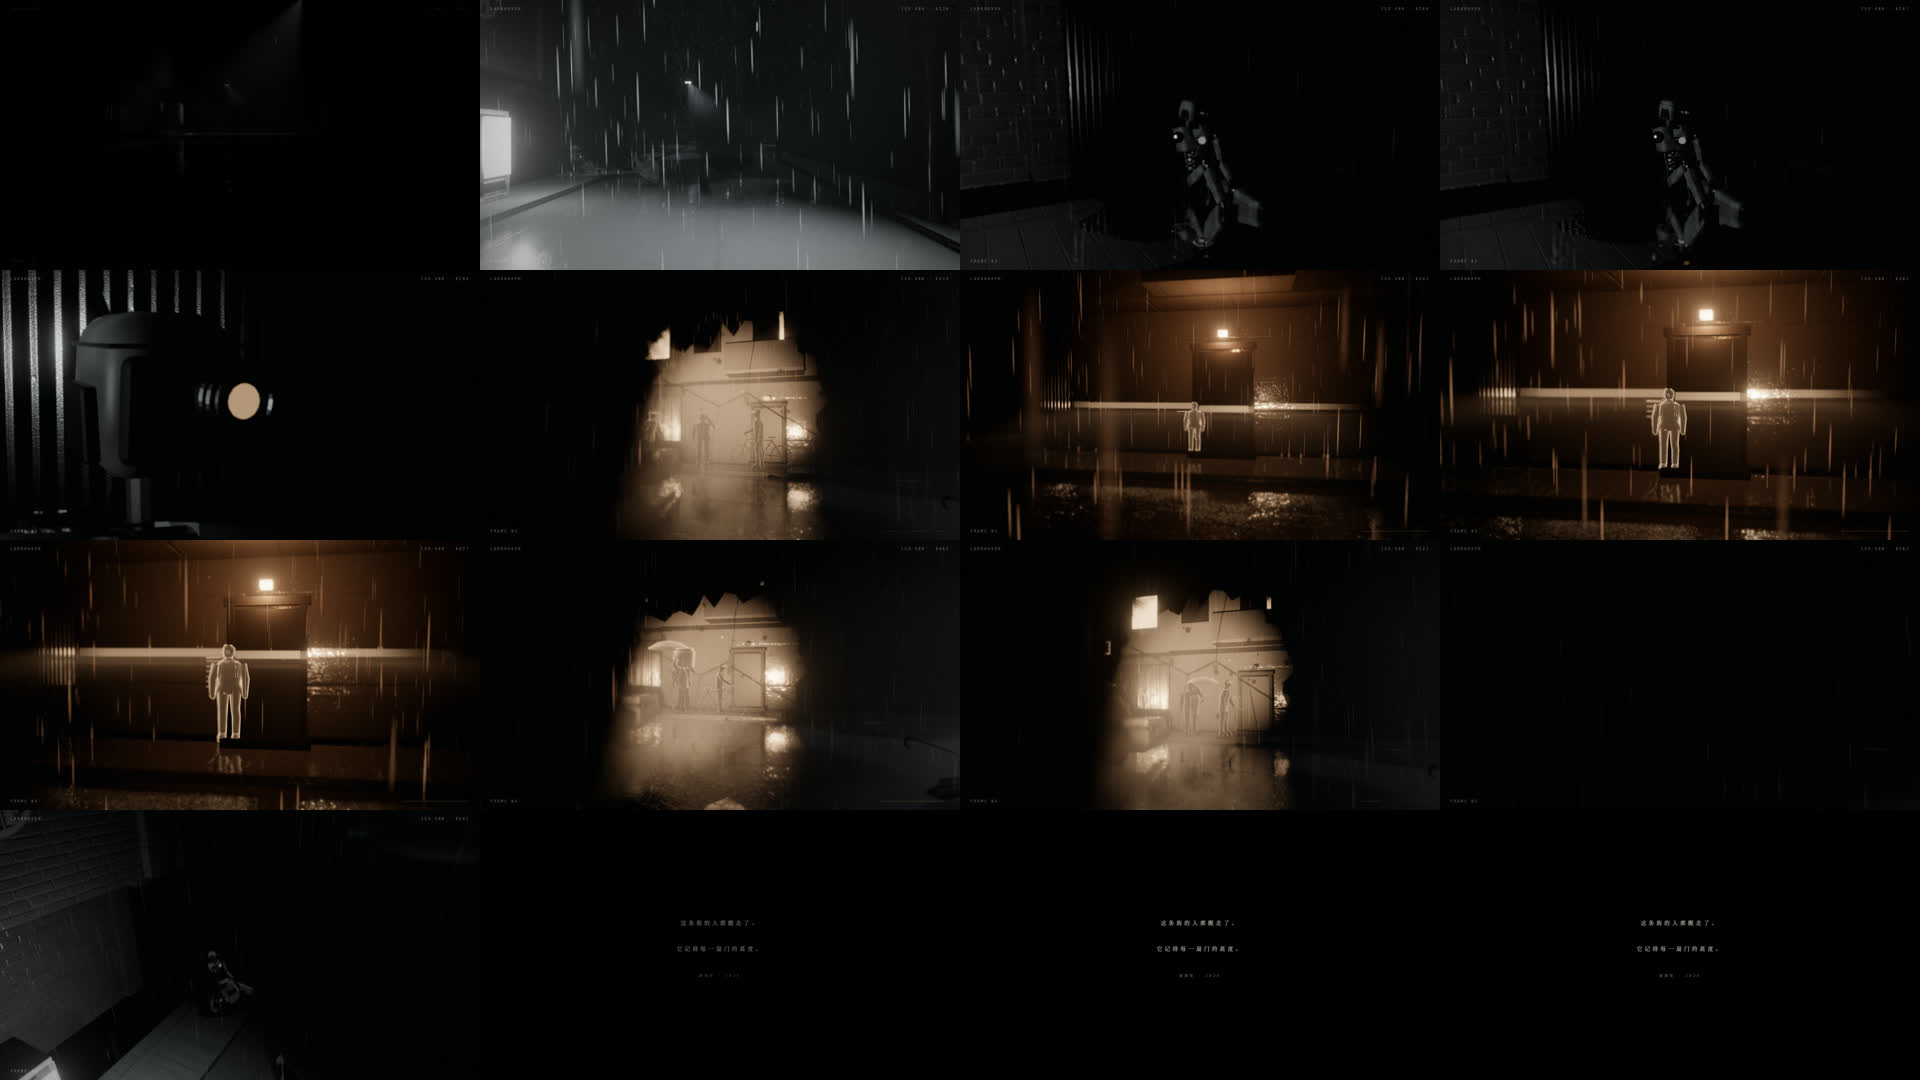
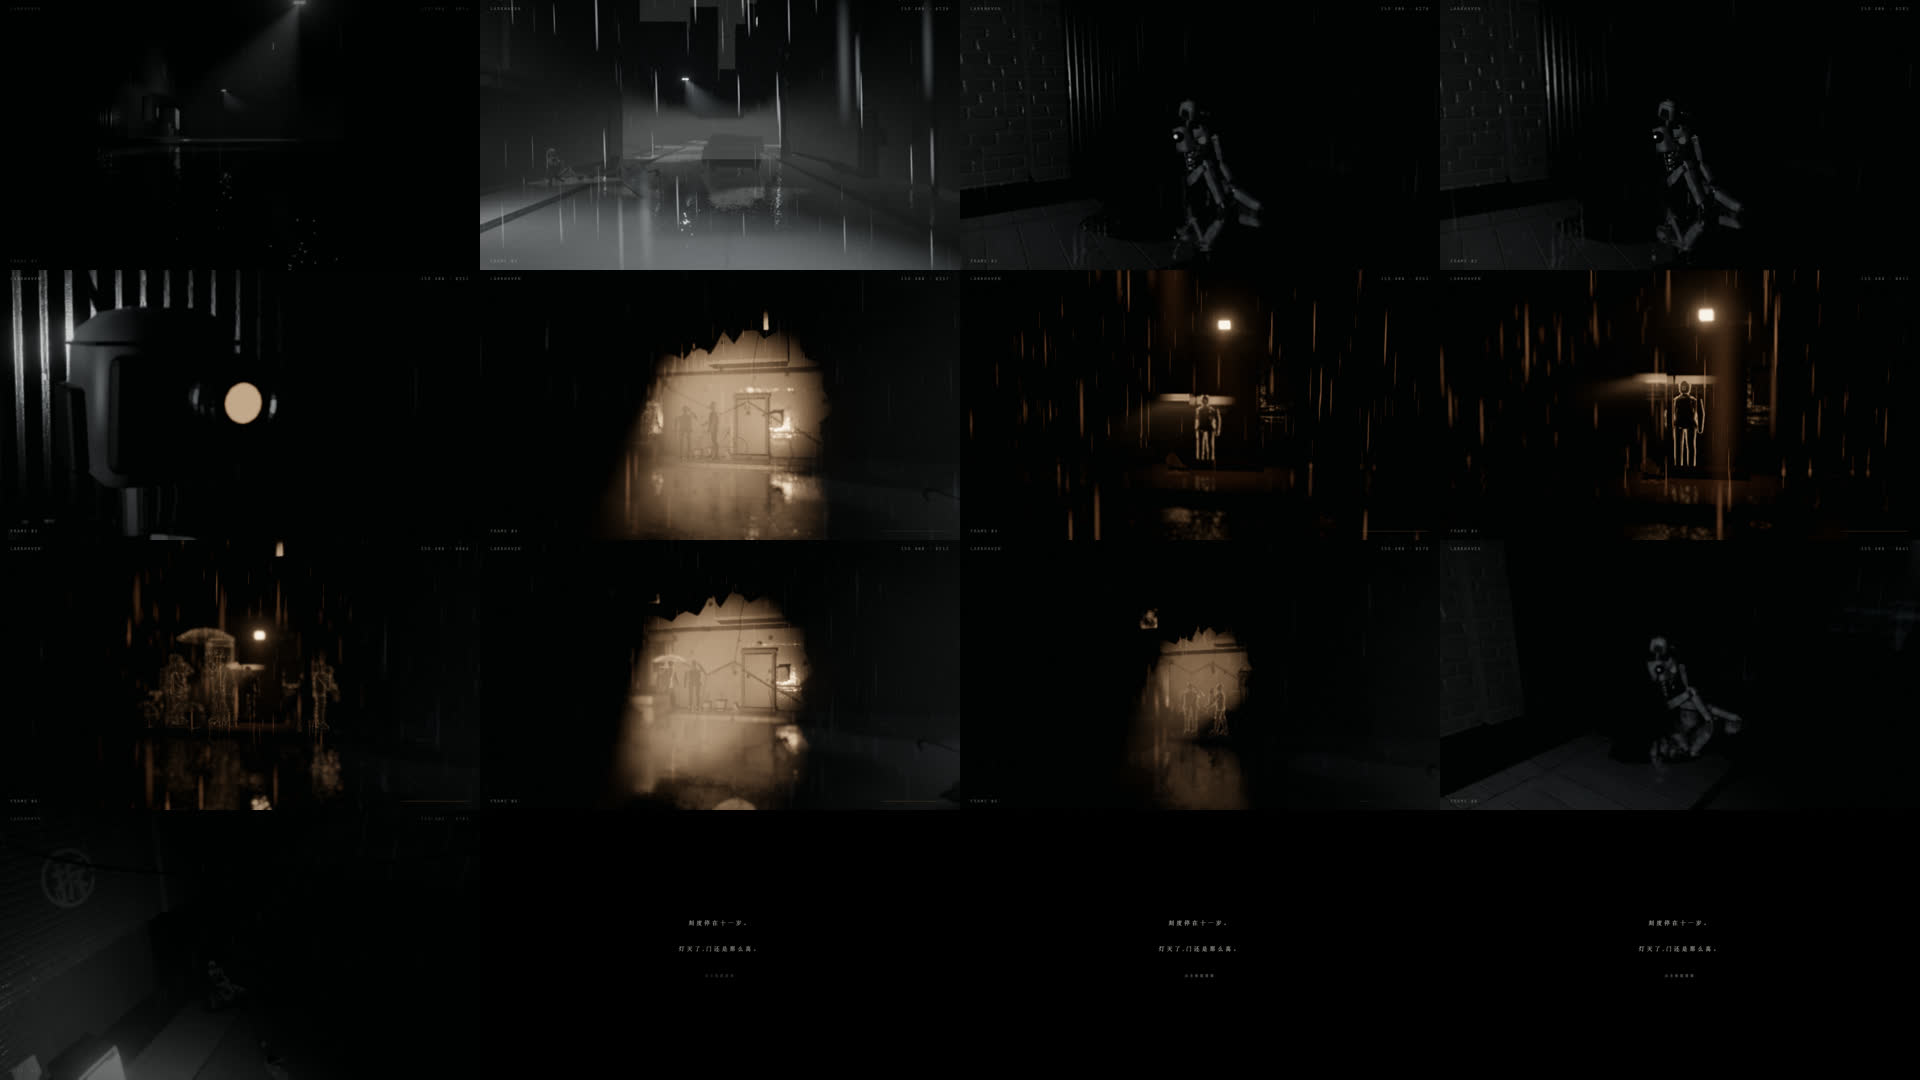
Gaze returns to the door when power runs low; look hint; cold rim light on the robot

diff --git a/src/story/director.js b/src/story/director.js
@@ -107,6 +107,11 @@ export default {
           this.cam.fov = 50 - push * 12;
         }
         const frag = ctx.api.fragment;
+        // nudge: one faint line until the pointer moves
+        if (this.t > 4 && !this.moved) this.film.hint('移动鼠标 · 慢慢看');
+        if (!this.moved && (Math.abs(input.pointer.x) > 0.15 || Math.abs(input.pointer.y) > 0.15)) { this.moved = true; this.film.hint(''); }
+        // however it was used, the eye goes back to the door before it runs out (its resting gaze is the door)
+        if (frag?.state === 'idle' && this.power < 0.35) { this.returning = Math.min(1, (this.returning ?? 0) + dt * 0.25); m.lookOverride = { x: 0, y: 0 }; }
         // after the door memory the eye has nothing left: power runs out within ~14 s
         if (frag?.state === 'done') this.power = Math.max(0, this.power - dt / 14);
         else if (robot && robot.open > 0.2 && frag?.state !== 'playing') this.power = Math.max(0, this.power - dt / 150);

diff --git a/src/systems/robot/index.js b/src/systems/robot/index.js
@@ -148,6 +148,12 @@ export default {
     spot.map = this.gobo.tex;
     spot.castShadow = true; spot.shadow.mapSize.setScalar(ctx.quality === 'low' ? 512 : 1024); spot.shadow.camera.near = 0.2; spot.shadow.bias = -0.0005;
     scene.add(spot, spot.target);
+    // a faint cold rim from behind and above (the street's ambient bounce): reads the shell, scratches and oil
+    // in the dark. Constant intensity: lights are never toggled at runtime (recompiles everything).
+    const rim = new THREE.SpotLight(0xc8d2dc, 6, 4, 0.5, 0.9, 2);
+    rim.position.copy(ROBOT_POS).add(new THREE.Vector3(-0.6, 1.9, 0.9));
+    rim.target.position.copy(ROBOT_POS).add(new THREE.Vector3(0.2, 0.8, 0));
+    scene.add(rim, rim.target);
     this.beamVol = ctx.api.atmo?.volume(new THREE.Vector3(0.3, 3, -14), new THREE.Vector3(11, 6, 18), 0.0, [spot]);
 
     // state

diff --git a/docs/REPORT.md b/docs/REPORT.md
@@ -9,7 +9,8 @@
 3. 片边出现"按住"。第一次按住一定失败(眼睛闪一下就灭),提示变成"再按住";再按住,镜头切到它发光的镜筒眼,光圈叶片卡顿着打开。
 4. 镜头到它肩后,移动鼠标让它迟钝地转头。琥珀色光束扫过的地方显出过去:窗户亮着灯、招牌亮着店名(张记面馆、光明照相……)、卷帘门升起、行人的轮廓撑着伞走过。光锥外依然是黑白的废墟。景深焦点会慢慢落到光照到的东西上。
 5. **高潮**:它的目光默认就落在对面那扇门上。光束在门上停留几秒,它会自己接管——眼睛收成一条测绘用的水平激光线,门廊灯亮起,一个背书包的孩子靠着门框站着;刻度一道道亮起("小宁 五岁""六岁"……),孩子一年年长高,街上的人影都退去。刻度到"十一岁"就停了,孩子消失,门廊灯熄灭。截图:`docs/snap-door-memory.png`。
-6. 之后电量很快耗尽,光束闪烁、熄灭,镜头升起后退,渐黑:"这条街的人都搬走了。它记得每一扇门的高度。"点击可重玩。
+6. 孩子消失后空一拍:门口没人,灯还亮着,"十一岁"还在;然后门廊灯接触不良地闪几下,灭了。之后电量很快耗尽,光束闪烁、熄灭,镜头升起后退,完全黑下来后停一拍,出现两行字(Grok 写的):
+   **刻度停在十一岁。 / 灯灭了,门还是那么高。**  字幕出现几秒后可点击重看。
 
 ## 怎么运行
 ```bash
@@ -42,3 +43,5 @@ node tools/shot.mjs memory-street   # 单个镜头截图
 - ~04:35 Codex 修好两条音频断言(记忆层 50ms 内连混响一起切断;雷声更沉),Claude 复测全部通过。
 - 04:38 根据 Grok 的拆迁老街调研(docs/research-relocation-grok.md):墙上喷了画圈的"拆"字、贴了征收公告和腾空通知(街名虚构为"青石巷"),部分店面用新砖潦草砌死。**这些在光锥里都会消失**——过去还没有拆迁。家门上贴着"已验收。此户已腾空。",门边粉笔写着"青石-17"。
 - 04:45 Codex 的机器人细节加工(面板分缝、铆钉、肩甲膝甲、背包格栅、液压管、分节手指缺一根小指、镜筒遮光罩)已接入;机器人静态零件按材质合并(绘制调用 678 → 300)。**WebGL2 回退实测可用**(`?webgl`),画面基本一致。资源压缩:总量 8.8MB → 4.0MB,打包后首屏远低于 15MB 预算。
+- ~05:20 性能:在 M4 Pro 上测得 720p 每帧 11–14ms、1080p 约 20ms(不锁帧)。逐项排查发现没有单一热点(见 docs/PERF.md);加了遮挡层深度预通道、低/高画质(WebGL2 自动低档)、**自适应分辨率**(帧时间持续偏长就自动降内部分辨率)。发现并记录:运行中切换灯光可见性会卡顿数秒,项目里已杜绝。
+- 05:26 第三轮互审:Codex 代码审查 5 条重要问题已修(重玩误触发、跳过开场残留黑幕、人影预热、孩子身高基准、投影片重绘);Grok 画面意见几乎全采纳——门的一幕重做(短激光刻线、门廊灯只照门框、孩子只剩轮廓、当年刻度亮其余变铅笔灰、空一拍再灭灯),结尾字幕改为全黑后再出并换成新文字。**还借此发现一个 bug:光锥里通知和"拆"字的消失效果之前其实没生效,已修。**
